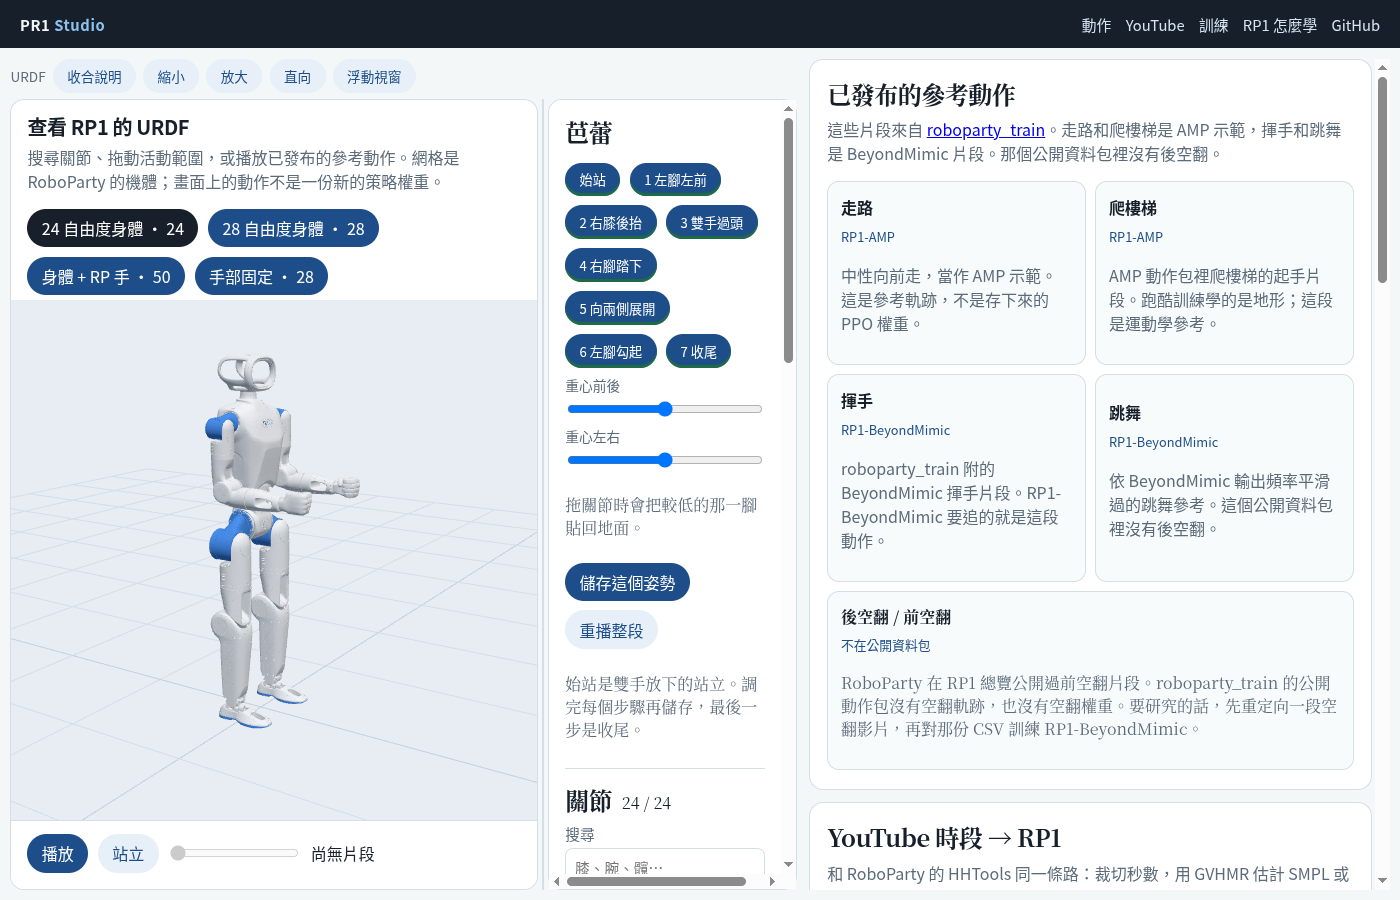
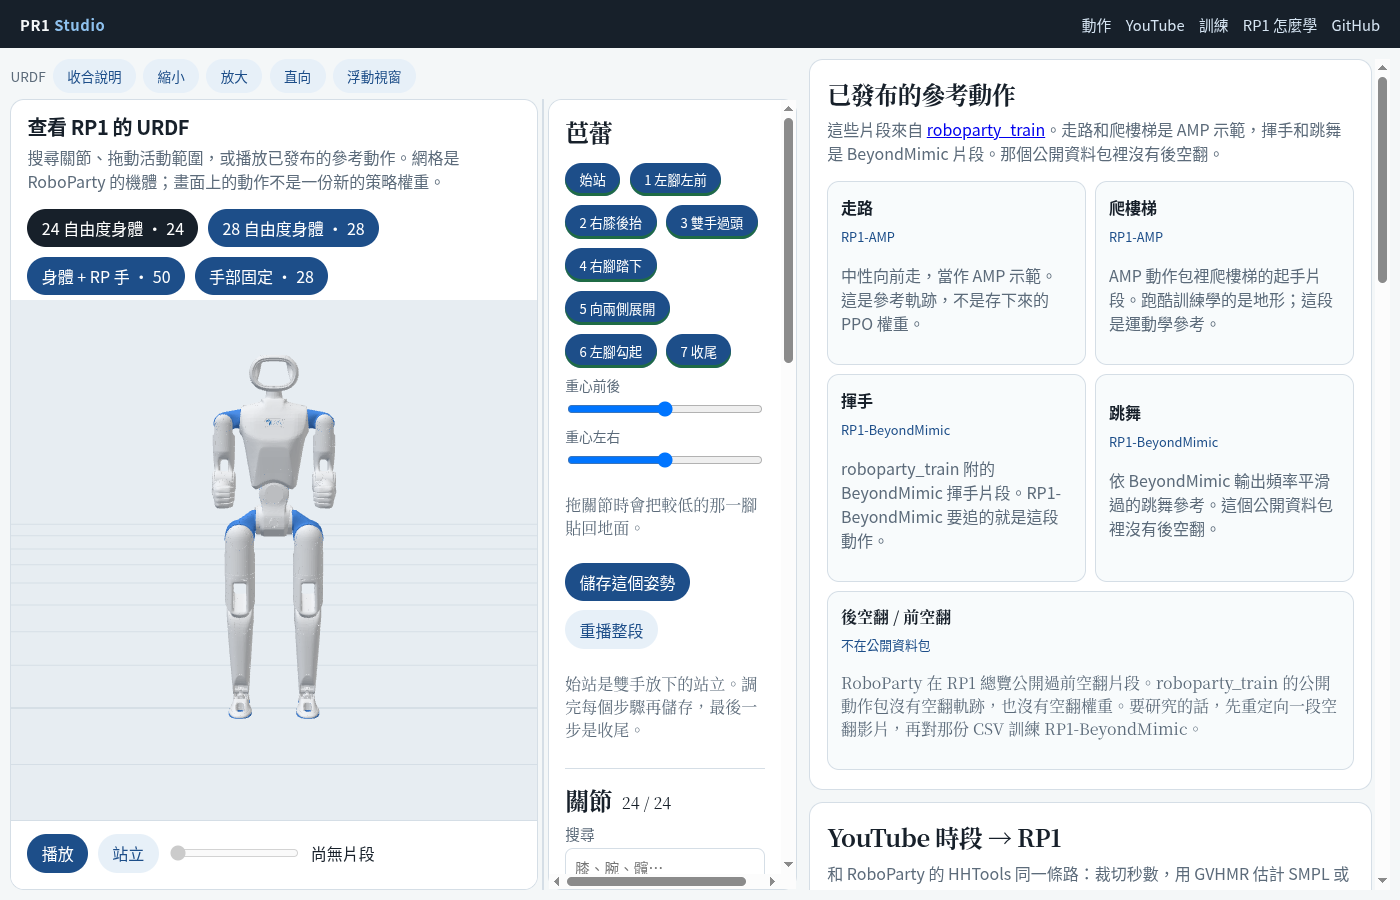
Record the ballet rollout from the front for about ten seconds.
The studio camera now looks at the robot's face, and the README clip runs long enough to show the later poses.

Changed region(s): [[0.1229, 0.3733, 0.2764, 0.8089]]

diff --git a/public/viewer.js b/public/viewer.js
@@ -113,7 +113,7 @@ export function createViewer(container) {
     const center = bounds.getCenter(new THREE.Vector3());
     controls.target.set(center.x, center.y, bounds.min.z + size.z * 0.45);
     const distance = Math.max(size.z, size.x) / (2 * Math.tan(camera.fov * Math.PI / 360) * 0.7);
-    camera.position.copy(controls.target).add(new THREE.Vector3(1.1, -1.7, 0.55).normalize().multiplyScalar(distance));
+    camera.position.copy(controls.target).add(new THREE.Vector3(1, 0, 0.22).normalize().multiplyScalar(distance));
     controls.update();
   }
 

diff --git a/public/index.html b/public/index.html
@@ -4,8 +4,8 @@
 <meta charset="utf-8">
 <meta name="viewport" content="width=device-width, initial-scale=1">
 <title>PR1 Studio</title>
-<link rel="stylesheet" href="/style.css?v=21">
-<script type="module" src="/app.js?v=21"></script>
+<link rel="stylesheet" href="/style.css?v=22">
+<script type="module" src="/app.js?v=22"></script>
 </head>
 <body>
 <header>

diff --git a/public/app.js b/public/app.js
@@ -1,4 +1,4 @@
-import { createViewer } from './viewer.js?v=3';
+import { createViewer } from './viewer.js?v=4';
 
 const $ = (id) => document.getElementById(id);
 const viewer = createViewer($('viewer'));

diff --git a/README.md b/README.md
@@ -12,9 +12,9 @@
 
 ## 訓好的芭蕾
 
-下面這段是八步芭蕾 PPO 在 Isaac Lab 裡錄下來的前約 6 秒，播在 RoboParty 的 URDF 上。它是策略滾出來的結果，不是參考軌跡本身。
+下面這段是八步芭蕾 PPO 在 Isaac Lab 裡錄下來的約 10 秒，鏡頭從正面看 RoboParty 的 URDF。它是策略滾出來的結果，不是參考軌跡本身。
 
-![八步芭蕾 PPO 的錄影：從站立進到抬腿和伸手](docs/ballet-ppo.gif)
+![八步芭蕾 PPO 的錄影：正面看完約十秒的動作](docs/ballet-ppo.gif)
 
 權重在 `checkpoints/rp1_ballet_balance/2026-11-08_05-02-50/model_11999.pt`。同一資料夾的 `track.npz` 是它追的參考，`params/agent.yaml` 是當時的 RSL-RL 設定。
 
